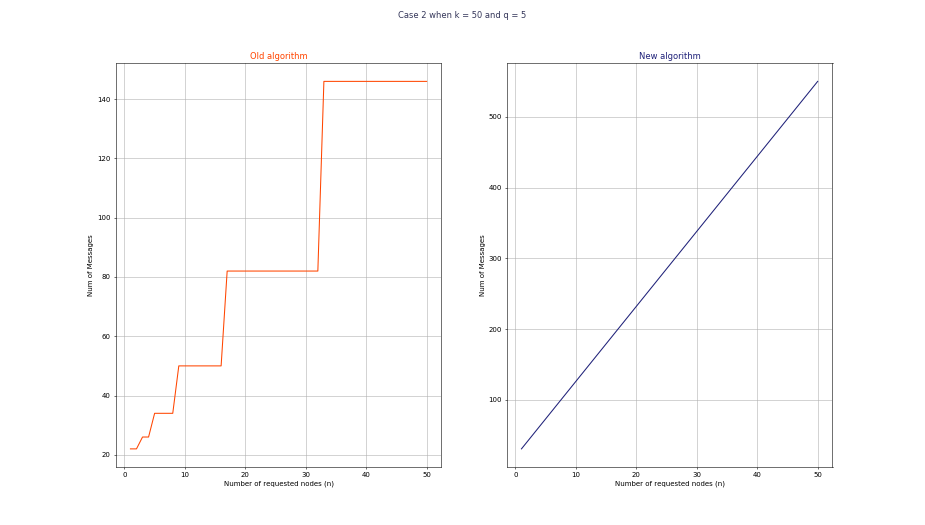
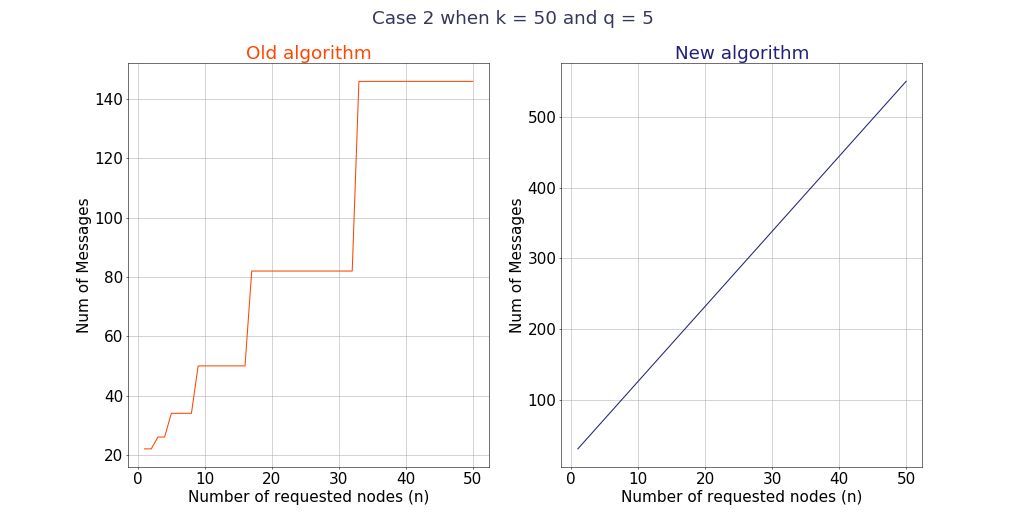
bigger font

diff --git a/Graphs.py b/Graphs.py
@@ -71,9 +71,10 @@ def draw(x, arr_y, labels, title):
     titles = ["Old algorithm", "New algorithm", "Old algorithm", "New algorithm",
               "Old algorithm", "New algorithm", "Old algorithm", "New algorithm"]
     idx = 0
+    plt.rcParams.update({'font.size': 22})
     while(idx < len(arr_y) - 1):
         fig, (ax1, ax2) = plt.subplots(1, 2)
-        fig.set_size_inches(18.5, 10.5)
+        fig.set_size_inches(20.5, 10.5)
         fig.suptitle(caseTitles[int(idx/2)]+" " + title, color="#35375A")
         ax1.set_title(titles[idx], color='#FF4500')
         ax2.set_title(titles[idx+1], color='#1F2179')
